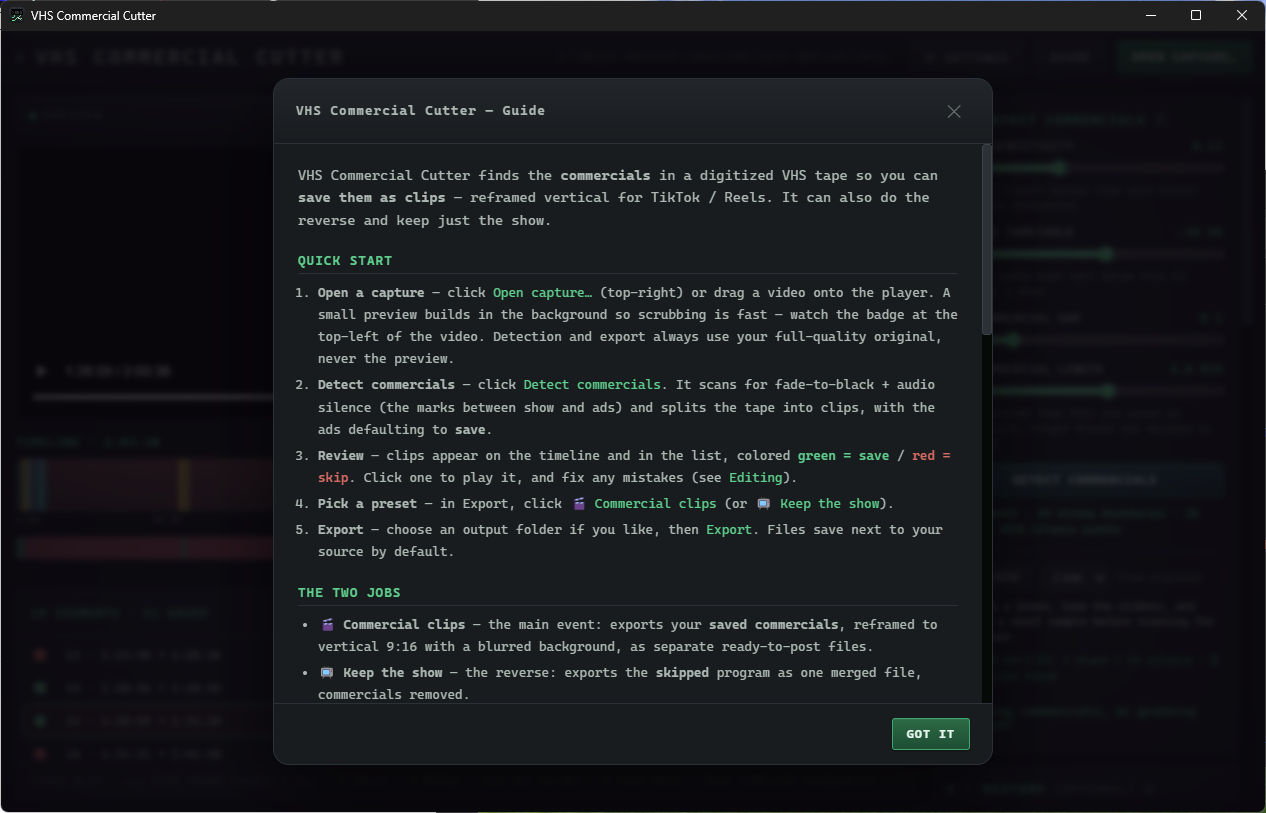
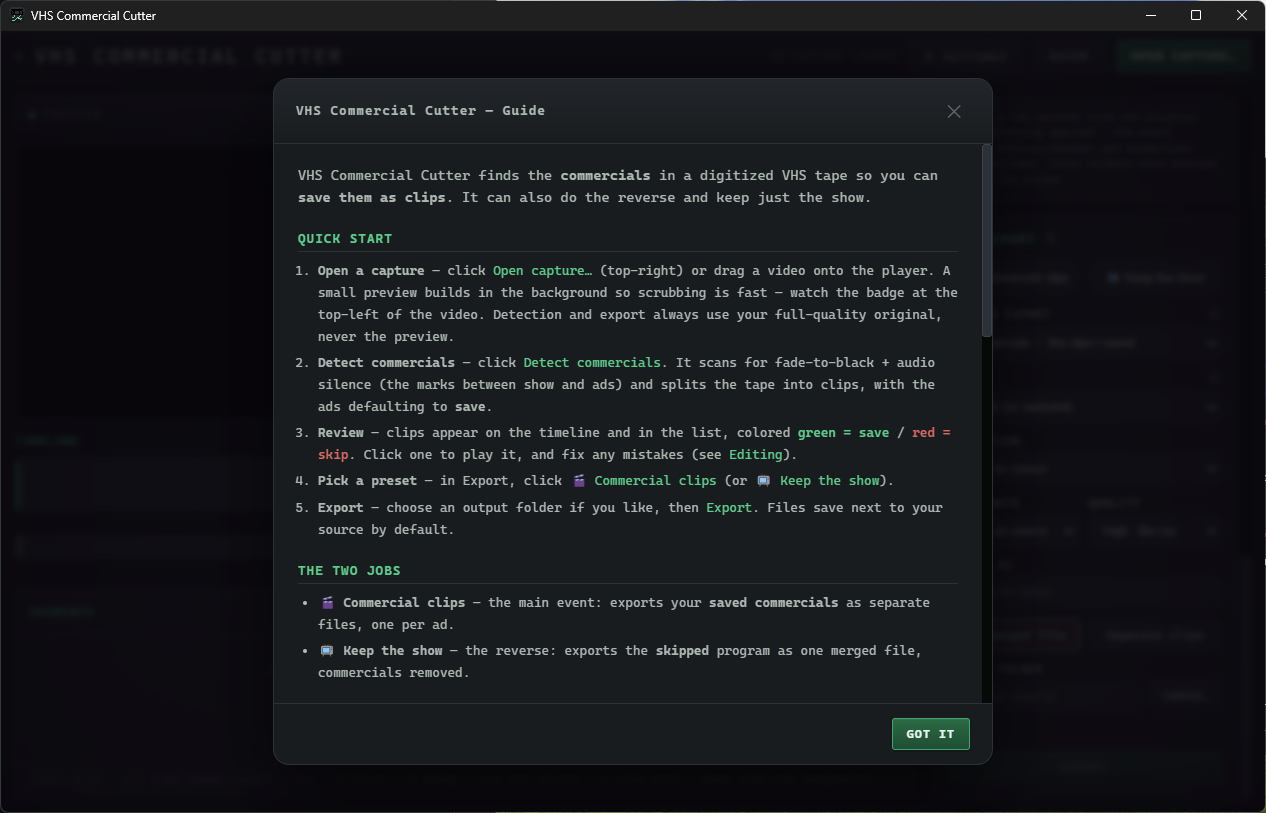
README: fix the screenshot layout, reshoot the guide
The guide and settings shots were set to 440px each to sit side by side, but
GitHub wrapped them, so the "on the left / on the right" caption was wrong
and the text was too small to read either way. Stack them at 820px with a
caption each instead.

Reshoot guide.png — the previous one still showed the vertical/TikTok copy
removed in 9ebf086. settings.png is unaffected; that panel only covers the
proxy cache, encoder, and updates.

diff --git a/README.md b/README.md
@@ -82,12 +82,16 @@ Grab the latest [release](https://github.com/90sCraig/vhs-commercial-cutter/rele
 5. **Export.** Choose a folder and go. It always cuts from your original file at full quality; the proxy is only there to keep things quick while you work.
 
 <div align="center">
-<img src="docs/screenshots/guide.png" alt="In-app guide" width="440" />
-&nbsp;&nbsp;
-<img src="docs/screenshots/settings.png" alt="Settings — proxy cache, encoder, updates" width="440" />
-</div>
 
-<sub>The **Guide** on the left walks through all of this. **Settings** on the right handles the proxy cache, the CPU/GPU encoder, and updates.</sub>
+<img src="docs/screenshots/guide.png" alt="In-app guide" width="820" />
+
+<sub>The **Guide** walks through all of this.</sub>
+
+<img src="docs/screenshots/settings.png" alt="Settings — proxy cache, encoder, updates" width="820" />
+
+<sub>**Settings** handles the proxy cache, the CPU/GPU encoder, and updates.</sub>
+
+</div>
 
 ## Made by 90s Craig
 
